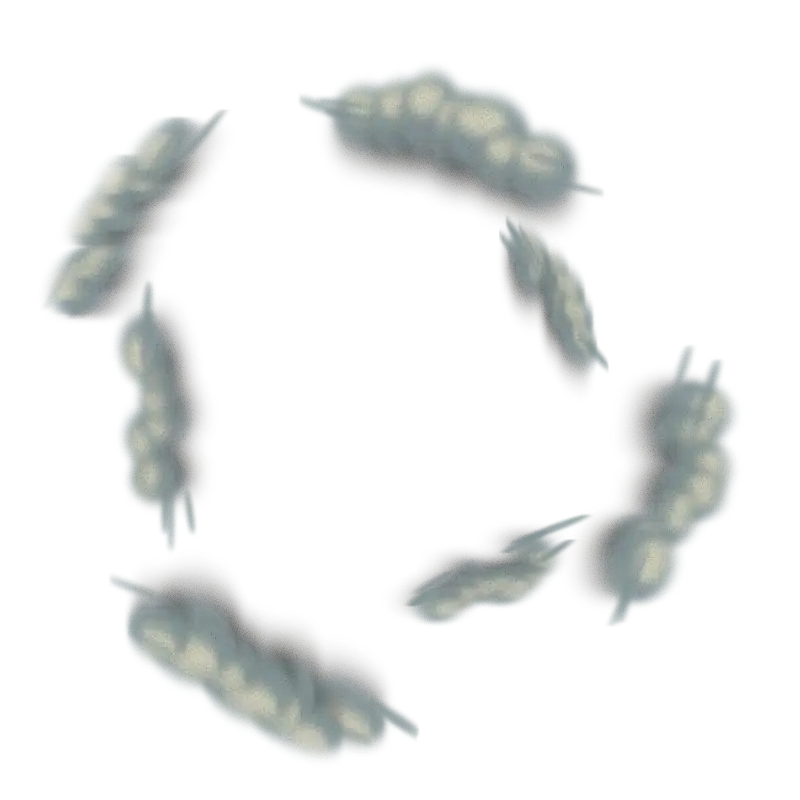
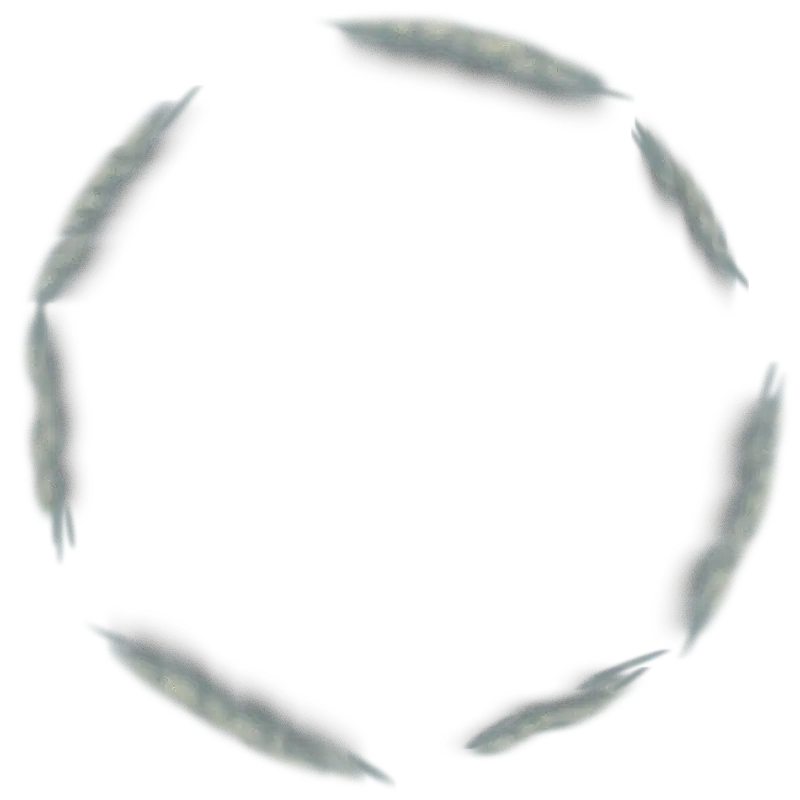
Plano: los títeres impresos como cartón recortado (recorte de papel, canto en la tinta de la región, palito), los hitos de las tandas para la lupa, y las nubes solo por el borde y la ruta

diff --git a/src/lib/bestiario/arte-plano.ts b/src/lib/bestiario/arte-plano.ts
@@ -5,8 +5,8 @@
  * distancia del ojo. Lo que le faltaba para ser un lugar es lo mismo que les faltaba a los caminos antes
  * de `D-90`: **algo en el medio**. Acá el medio es el cielo de la noche, mirado desde arriba:
  *
- * - **Las nubes** (`plano-nubes`): bancos de niebla en jirones por encima del disco, acostados a lo largo
- *   de su vuelta. No tapan: tienen huecos, y en el medio (el galpón) casi no hay. Están quietas (girando
+ * - **Las nubes** (`plano-nubes`): bancos de niebla en jirones por el borde del disco y sobre la ruta,
+ *   acostados a lo largo de su vuelta. No tapan ninguna porción: el disco queda con su color. Están quietas (girando
  *   costaban cuadros y no se notaba). Con la lupa se abren del todo: acercarse es meterse abajo de ellas.
  * - **La lechuza** (`plano-lechuza`): muy cada tanto cruza el plano un pájaro grande, visto desde arriba,
  *   con su mancha en el piso corrida para un lado. Es lo que cruza lejos, raro, de a uno.
@@ -18,6 +18,8 @@
 
 import { forma, nube, type Pieza } from './aerografo.ts';
 import { azar } from './pincel.ts';
+import { dibujarGrupo, type Dibujo } from './figuras.ts';
+import { AUMENTO_DEL_PLANO, LAS_DEL_PLANO } from './plano-elenco.ts';
 
 const T = {
   niebla: 'var(--portal-niebla)',
@@ -28,17 +30,19 @@ const T = {
 
 const f = (v: number): string => (Math.round(v * 10) / 10).toString();
 /** El plano mide 1000 de lado (`LADO` en `mapa.ts`) y el disco entra justo: el medio, y hasta dónde llegan las nubes. */
-export const DISCO = { medio: 500, radio: 484, claro: 150 } as const;
+// Segunda vuelta: el claro del medio pasó de 150 a 372. Con las nubes sobre las porciones el disco quedaba lavado en el
+// teléfono; ahora andan por el borde y sobre la ruta (que va de 432 a 476), y las trece porciones quedan con su color.
+export const DISCO = { medio: 500, radio: 484, claro: 372 } as const;
 
 /** Los bancos de nubes: `[ángulo en grados, distancia al medio, largo, alto]`. Siete, desparejos, con dos huecos grandes entre ellos. */
 export const BANCOS: readonly (readonly [number, number, number, number])[] = [
-  [18, 350, 210, 62],
-  [64, 250, 130, 40],
-  [118, 400, 250, 70],
-  [176, 300, 160, 48],
-  [214, 420, 190, 54],
-  [282, 330, 230, 66],
-  [326, 230, 120, 38],
+  [18, 444, 230, 30],
+  [64, 436, 150, 24],
+  [118, 448, 260, 32],
+  [176, 438, 170, 26],
+  [214, 450, 200, 30],
+  [282, 442, 250, 32],
+  [326, 434, 140, 22],
 ];
 
 /** Un banco: un lomo claro arriba, la panza más oscura, y jirones que se le escapan por las puntas. Va acostado a lo largo de su vuelta. */
@@ -70,8 +74,8 @@ function nubes(): string {
   return (
     // La máscara: el disco, con el canto y el medio soplados. Las nubes no llegan al borde ni tapan el galpón.
     `<mask id="pl-disco"><rect x="0" y="0" width="1000" height="1000" fill="black"/>` +
-    `<circle cx="${medio}" cy="${medio}" r="${radio - 26}" fill="white" filter="url(#soplo-l)"/>` +
-    `<circle cx="${medio}" cy="${medio}" r="${claro}" fill="black" filter="url(#soplo-xl)"/></mask>` +
+    `<circle cx="${medio}" cy="${medio}" r="${radio - 8}" fill="white" filter="url(#soplo-m)"/>` +
+    `<circle cx="${medio}" cy="${medio}" r="${claro}" fill="black" filter="url(#soplo-l)"/></mask>` +
     `<g filter="url(#rociado)"><rect x="0" y="0" width="1000" height="1000" fill="${T.negro}" fill-opacity="0"/>` +
     `<g mask="url(#pl-disco)">${BANCOS.map(([ang, dist, largo, alto], i) => banco(ang, dist, largo, alto, 8100 + i)).join('')}</g></g>`
   );
@@ -102,9 +106,131 @@ function lechuza(): string {
   );
 }
 
+/* ------------------------------------------------------------------
+   Los hitos (segunda vuelta): lo que las tandas le sumaron a cada región, en chiquito, para la lupa
+   ------------------------------------------------------------------
+   Cinco dibujos de 44 unidades, cada uno en el borde de afuera de su porción, del lado de la ruta. En un teléfono
+   miden dieciocho píxeles: de lejos son una mancha, y con la lupa se leen. Tinta plana con grano, como las figuras
+   del plano; cada uno con una sola tinta de su región además del negro y el papel.
+*/
+
+const PAPEL = 'var(--papel)';
+/** Ángulo desde el norte, en el sentido del reloj, como `polar` en `mapa.ts`. */
+const enElPlano = (ang: number, r: number): readonly [number, number] => [500 + r * Math.sin((ang * Math.PI) / 180), 500 - r * Math.cos((ang * Math.PI) / 180)];
+const linea = (d: string, ancho: number, color = T.negro): string => `<path d="${d}" fill="none" stroke="${color}" stroke-width="${ancho}" stroke-linecap="round" stroke-linejoin="round"/>`;
+
+/** Qué hito va en cada región, en el medio de su porción y a qué distancia del centro. Las porciones llegan hasta 425. */
+// Van corridos del medio de la porción, del lado contrario al títere de afuera (`LUGAR_EN_EL_PLANO`).
+export const HITOS: readonly { region: string; ang: number; r: number; dibujo: () => string }[] = [
+  // La prisión: el arco de las cárceles, con su escalera y su puente.
+  { region: 'la-prision', ang: 225, r: 398, dibujo: () => forma('M-16 18 L-16 -6 Q-16 -19 0 -19 Q16 -19 16 -6 L16 18 Z', T.negro) + linea('M-16 18 L-16 -6 Q-16 -19 0 -19 Q16 -19 16 -6 L16 18', 2, PAPEL) + linea('M-15 -3 L15 -6 M-14 16 l0 -5 l5 0 l0 -5 l5 0 l0 -5 l5 0 l0 -5 l6 0', 1.4, PAPEL) + linea('M6 -4 l0 9 q0 3 -3 2', 1, PAPEL) },
+  // Los astilleros: el carguero, con su chimenea y la grúa.
+  { region: 'los-astilleros', ang: 113, r: 400, dibujo: () => forma('M-20 6 L20 6 L15 15 L-16 15 Z', T.negro) + forma('M-12 6 l0 -8 l12 0 l0 8 Z M3 6 l0 -14 l5 0 l0 14 Z', T.negro) + linea('M-19 7 L19 7', 1.2, 'var(--entorno-astillero-tiza-clara)') + linea('M12 6 L12 -17 L-2 -10 M12 -17 l6 5', 1.4) + linea('M-9 -1 l2 0 M-5 -1 l2 0', 1, PAPEL) },
+  // El templo: la puerta del fondo, prendida, con los telones recogidos.
+  { region: 'el-templo', ang: 74, r: 398, dibujo: () => forma('M-7 16 L-7 -8 Q0 -17 7 -8 L7 16 Z', 'var(--entorno-templo-foco)') + forma('M-7 -10 C-16 -8 -13 10 -19 16 L-7 16 Z M7 -10 C16 -8 13 10 19 16 L7 16 Z', T.negro) + linea('M-4 18 L-9 22 M4 18 L9 22', 1.2, 'var(--entorno-templo-foco)') },
+  // Los techos: el arco pintado con cal, y la pelota.
+  { region: 'los-techos', ang: 291, r: 400, dibujo: () => linea('M-15 14 L-14 -10 L15 -12 L16 14', 3, PAPEL) + linea('M-15 14 L-14 -10 L15 -12 L16 14', 1) + `<circle cx="2" cy="12" r="4" fill="${T.negro}"/>` + linea('M0 10 q2 2 4 0', 0.8, PAPEL) },
+  // El bajo: el pasillo que se pierde, con la lamparita y su escalera de rayas en el agua.
+  { region: 'el-bajo', ang: 152, r: 398, dibujo: () => forma('M-13 18 L-13 -17 L13 -17 L13 18 Z', T.negro) + linea('M-13 18 L-13 -17 L13 -17 L13 18 M-8 14 L-8 -11 L8 -11 L8 14 M-4 9 L-4 -6 L4 -6 L4 9', 1.3, PAPEL) + `<circle cx="0" cy="-1" r="2" fill="var(--entorno-bajo-llama-clara)"/>` + linea('M-2 5 l4 0 M-4 10 l8 0 M-6 15 l12 0', 1.3, 'var(--entorno-bajo-llama)') },
+];
+
+/** La caja de un hito en el plano: 44 de lado, centrada en su lugar. */
+export const cajaDelHito = (h: { ang: number; r: number }): readonly [number, number, number, number] => {
+  const [x, y] = enElPlano(h.ang, h.r);
+  return [Math.round(x) - 22, Math.round(y) - 22, 44, 44];
+};
+
+function hito(h: (typeof HITOS)[number]): string {
+  const [x, y, w, alto] = cajaDelHito(h);
+  return `<g filter="url(#grano)"><rect x="${x}" y="${y}" width="${w}" height="${alto}" fill="${T.negro}" fill-opacity="0"/><g transform="translate(${x + 22} ${y + 22})">${h.dibujo()}</g></g>`;
+}
+
+/* ------------------------------------------------------------------
+   Los títeres del plano (segunda vuelta): cartón recortado, dos por zona
+   ------------------------------------------------------------------
+   Pedido del usuario: *"que mejore los títeres en mapa"*. Las figuras del plano eran los `<symbol>` de `figuras.ts`
+   en tinta negra pareja. Siguen siendo esas figuras (las fichas las usan igual, sin tocar), pero las dos de cada zona
+   se **imprimen** como un títere de cartón: el recorte de papel alrededor de la silueta, un canto en la tinta de su
+   región, el palito que lo sostiene y el grano de la cartulina. La página las pone como imagen, más grandes.
+*/
+
+/** Lo que pinta cada clase de `figuras.ts` (`sitio.css`, «Las figuras»), para la imprenta. `TR` es la tinta de la región. */
+const TINTAS: Readonly<Record<string, string>> = {
+  'b-tn': 'fill:var(--fondo)',
+  'b-osc': 'fill:var(--borde)',
+  'b-pp': 'fill:var(--papel)',
+  'b-ac': 'fill:TR',
+  'b-ac2': 'fill:TR;fill-opacity:0.55',
+  'b-oro': 'fill:var(--acento-2)',
+  'b-az': 'fill:var(--disco-un-baion-para-el-ojo-idiota-apoyo)',
+  'b-ag': 'fill:var(--disco-un-baion-para-el-ojo-idiota-tinta);fill-opacity:0.6',
+  'b-barro': 'fill:var(--disco-luzbelito-apoyo)',
+  'b-borde': 'stroke:var(--fondo);stroke-width:2.5',
+  'b-borde-grueso': 'stroke:var(--fondo);stroke-width:5;stroke-linejoin:round',
+  'b-lana': 'fill:var(--papel);stroke:var(--fondo);stroke-width:2',
+  'b-tz': 'fill:none;stroke-linecap:round;stroke-linejoin:round;stroke:var(--fondo)',
+  'b-tz-pp': 'fill:none;stroke-linecap:round;stroke-linejoin:round;stroke:var(--papel)',
+  'b-tz-oro': 'fill:none;stroke-linecap:round;stroke-linejoin:round;stroke:var(--acento-2);stroke-width:2.5',
+  'b-pun': 'fill:none;stroke-linecap:round;stroke-linejoin:round;stroke:var(--fondo);stroke-width:2;stroke-dasharray:3 3',
+};
+
+/** El marcado de una figura con las tintas puestas en cada pieza, en vez de las clases que pinta la hoja de estilos. */
+export function conTinta(marcado: string, tr: string): string {
+  return marcado.replace(/class="([^"]+)"/g, (_, clases: string) => {
+    const estilo = clases.split(' ').map((c) => {
+      const t = TINTAS[c];
+      if (t === undefined) throw new Error(`arte-plano.ts no sabe pintar la clase "${c}" de figuras.ts`);
+      return t.replaceAll('TR', tr);
+    });
+    return `style="${estilo.join(';')}"`;
+  });
+}
+
+/** La caja del títere impreso, en las unidades de la figura (que va de −10 a 110 y de −15 a 100): con lugar para el recorte y el palito. */
+export const CAJA_DEL_TITERE = [-18, -23, 136, 146] as const;
+
+export interface TitereDelPlano {
+  id: string;
+  dibujo: Dibujo;
+  cantidad?: number;
+  tam: number;
+}
+
+function titere(b: TitereDelPlano, tr: string): string {
+  const [x, y, w, h] = CAJA_DEL_TITERE;
+  const id = `rc-${b.id}`;
+  return (
+    // El recorte: la silueta engordada dos veces. Afuera, el canto en la tinta de la región; adentro, el papel.
+    `<filter id="${id}" x="-20%" y="-20%" width="140%" height="140%" color-interpolation-filters="sRGB">` +
+    `<feMorphology in="SourceAlpha" operator="dilate" radius="5.4" result="gordo"/><feFlood flood-color="${tr}"/><feComposite in2="gordo" operator="in" result="canto"/>` +
+    `<feMorphology in="SourceAlpha" operator="dilate" radius="3.2" result="medio"/><feFlood flood-color="var(--papel)"/><feComposite in2="medio" operator="in" result="papel"/>` +
+    `<feMerge><feMergeNode in="canto"/><feMergeNode in="papel"/><feMergeNode in="SourceGraphic"/></feMerge></filter>` +
+    `<g filter="url(#grano)"><rect x="${x}" y="${y}" width="${w}" height="${h}" fill="${T.negro}" fill-opacity="0"/>` +
+    // El palito, de madera, que asoma por abajo.
+    `<path d="M50 84 L51 ${y + h - 3}" fill="none" stroke="var(--portal-madera)" stroke-width="5" stroke-linecap="round"/>` +
+    `<path d="M48.6 96 L49.4 ${y + h - 5}" fill="none" stroke="var(--portal-madera-honda)" stroke-width="1.4"/>` +
+    `<g filter="url(#${id})">${conTinta(dibujarGrupo(b.dibujo, b.cantidad ?? 1), tr)}</g>` +
+    `</g>`
+  );
+}
+
+/** Dónde va la imagen de un títere en el plano: la caja de la figura de siempre, agrandada, con el margen del recorte. */
+export function cajaEnElPlano(b: { tam: number }, medio: { x: number; y: number }, aumento: number): { x: number; y: number; ancho: number; alto: number } {
+  const u = (b.tam * aumento * AUMENTO_DEL_PLANO) / 100;
+  // El `<use>` de siempre ponía el (−10, −15) de la figura en (x − 0,6·t, y − 0,65·t), con t = 100·u.
+  return { x: medio.x - 60 * u + (CAJA_DEL_TITERE[0] + 10) * u, y: medio.y - 65 * u + (CAJA_DEL_TITERE[1] + 15) * u, ancho: CAJA_DEL_TITERE[2] * u, alto: CAJA_DEL_TITERE[3] * u };
+}
+
+/** Las piezas de los títeres del plano. Necesitan el JSON (qué figura es cada una y de qué disco es su región): se lo pasa la imprenta. */
+export function piezasDeLosTiteres(bestias: readonly (TitereDelPlano & { region: string })[], tintaDeRegion: (region: string) => string): Pieza[] {
+  return bestias.filter((b) => LAS_DEL_PLANO.has(b.id)).map((b) => ({ nombre: `plano-titere-${b.id}`, caja: CAJA_DEL_TITERE, dibujo: titere(b, tintaDeRegion(b.region)), densidad: 2.4 }));
+}
+
 /** Las piezas del aire del plano. Las imprime `scripts/imprimir-bestiario.mjs` con las del camino. */
 export const PIEZAS_DEL_PLANO: readonly Pieza[] = [
   // Es niebla: no tiene filo que cuidar. A 0,8 píxeles por unidad ocupa 2,4 MB decodificada.
   { nombre: 'plano-nubes', caja: [0, 0, 1000, 1000], dibujo: nubes(), densidad: 0.8, calidad: 60 },
   { nombre: 'plano-lechuza', caja: LECHUZA.caja, dibujo: lechuza(), densidad: 1.2 },
+  // Los hitos se imprimen finos: son para mirarlos con la lupa al máximo.
+  ...HITOS.map((h): Pieza => ({ nombre: `plano-hito-${h.region}`, caja: cajaDelHito(h), dibujo: hito(h), densidad: 5 })),
 ];
